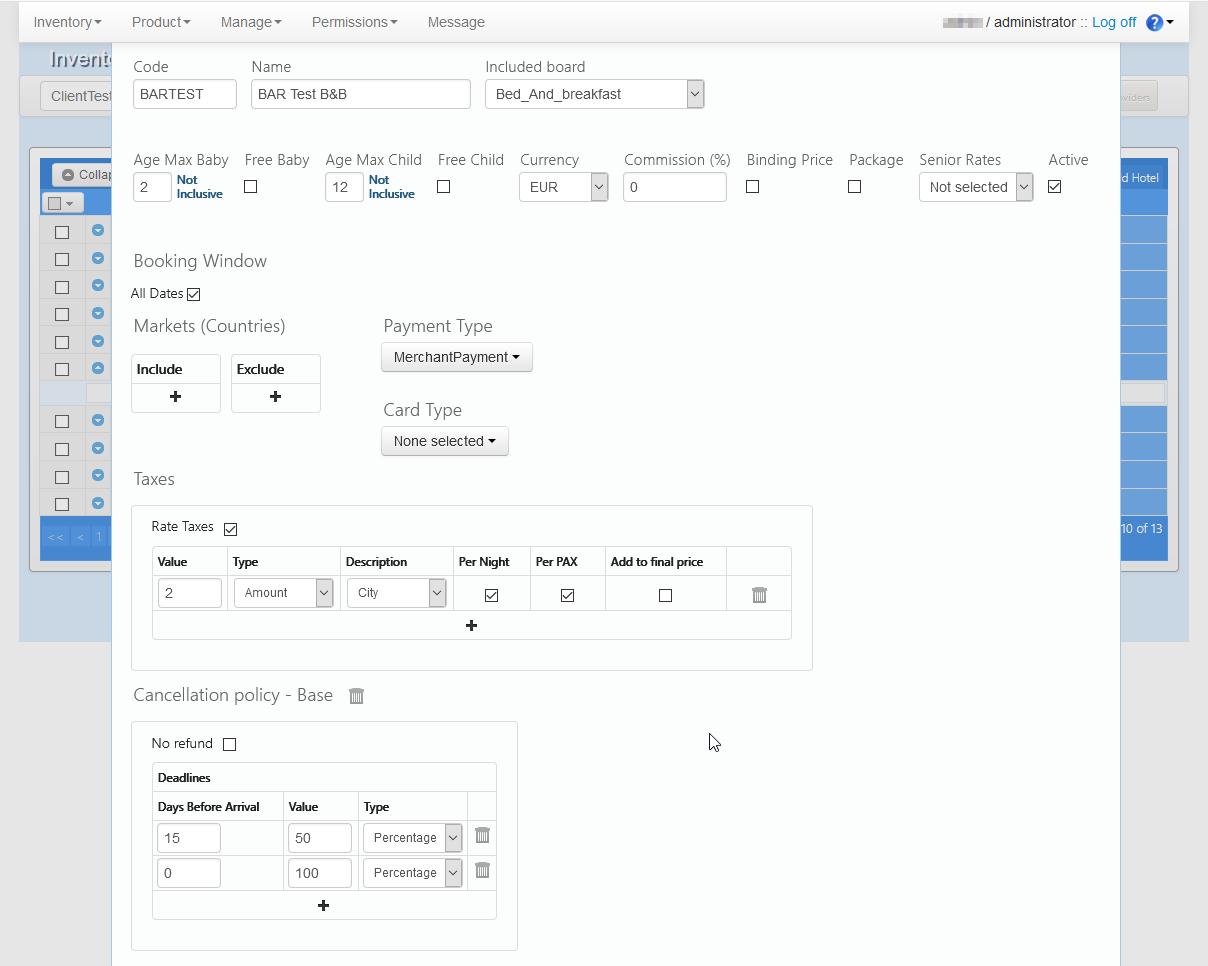
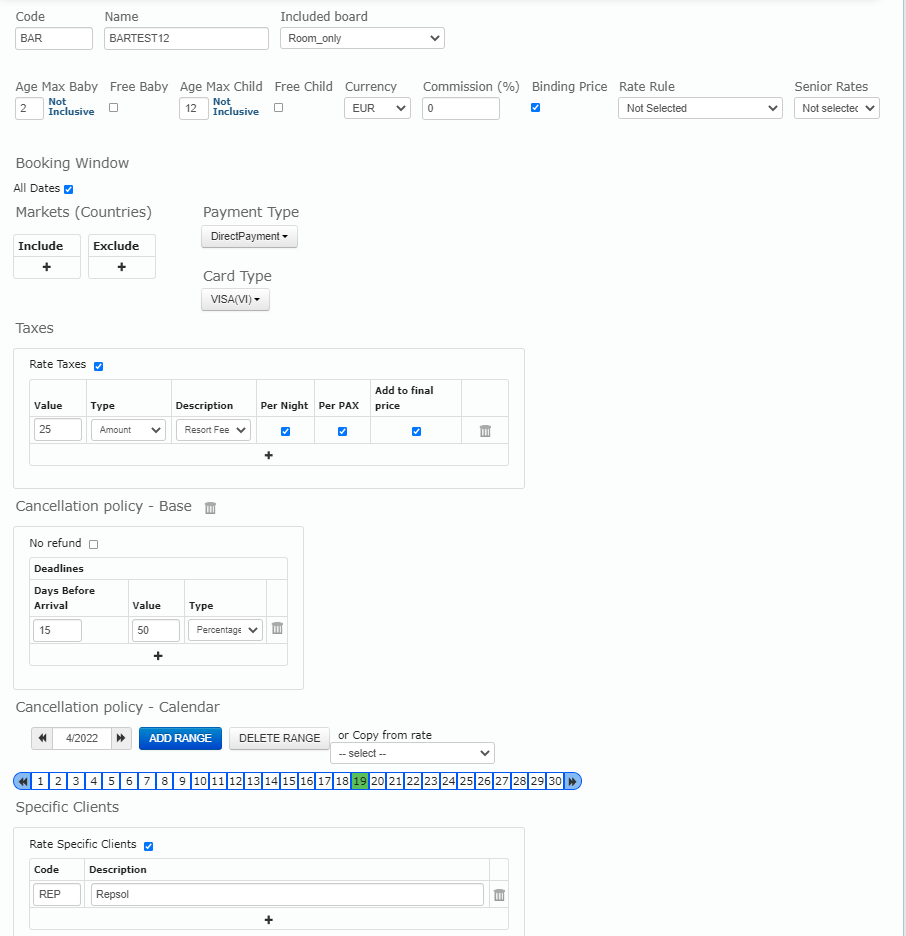
Feat: Add specific clients documentation to inventory

diff --git a/content/inventory-x/extranet/load-product/setup/_index.md b/content/inventory-x/extranet/load-product/setup/_index.md
@@ -32,7 +32,6 @@ Optionally, you will be able to configurate different discounts, supplements or 
 
 All these structures can be activated/deactivated or deleted. See [Activate/Deactivate/Delete](#activate/deactivate/delete) section for more details.
 
-In this page you can also find information about the [Wizard SetUp](#wizard-setup), created to help configure multiple hotels that share the same rates and rooms information.
 
 ## Hotel
 
@@ -99,7 +98,7 @@ Now that you have added the hotel it is time to add the rates and then the rooms
 
 In order to add a new rate, click in the ``Add Rate`` button in the hotel row:
 
-![Inventory SetUp Add Rate](./../../../images/web/inventory_setup_addrate.JPG "Inventory SetUp Add Rate")
+![Inventory SetUp Add Rate](./../../../images/web/inventory_setup_addrate.png "Inventory SetUp Add Rate")
 
 </br>
 
@@ -138,6 +137,8 @@ added once the checkbox of "Taxes" is checked:
     * **Add to final price:** if checked, the tax price will be included in the final price that the client will pay. If it is not checked, the tax will be informative to the final customer and should be paid for them at the hotel.
 * **Cancellation policy – Base:** Cancellation policies that can be applied to the rate. The rate will be non refundable if the checkbox ``No refund`` is checked. It is possible to apply a different type of cancellation policy by clicking the `+` button. You can add as many policies as you need, all you need to do is indicate the days in advance before the arrival date, the type and the value of the policy. See [How to configurate different cancel policies](./../../faq/cancel-policies) section for some examples.
 * **Cancellation policy - Calendar:** This option will only appear once you have created your rate previously with base cancel policies. The cancellation policy by calendar allows you to create specific cancel policies by day or date range. You can click the `Add range` button to specify a date range and the cancel policies. This new cancel policies by day will override the base cancel policies specified at rate level. If you want to remove a cancel policy by date you can click the `Delete range` button and specify your dates. You can also delete or check the cancel policies by day clicking in the day's number of the month.
+* **Specific Clients:** If you want to inform that this rate is only for a list of specific clients check this option and add both Code (code that represent your client) and Description (normally the name of the client). You can add maximum 15 clients. The client codes have to be unique on the same rate.  
+
 
 When a rate is added, it appears in the hotel node when you click the arrow that appears on the left side of the hotel name.
 
@@ -238,49 +239,6 @@ In the following image you will see the three action buttons to activate, deacti
 </br>
 
 In case there are any hotels, rates, derived rates or rooms deactivated, they will appear on a red background, as you can see in the previous image for hotel *"Just Sleep Jiaoxi"* 
-
-</br>
-
-# Wizard SetUp
-
-The Wizard Setup is a tool that is be really helpful when you have to create lots of the same rates and rooms for different hotels. 
-
-![Inventory-X Wizard SetUp](./../../../images/web/inventory_wizardsetup.png "Wizard Inventory-X")
-
-</br>
-
-You will be able to create hotels rates, rooms and cancellation policies and then create the relation among them. Once you have selected the client-channel relation, a Wizard SetUp view with four different sections will appear:
-
-![Inventory-X Wizard SetUp](./../../../images/web/inventory_wizardsetup1.png "Wizard Inventory-X")
-
-</br>
-
-The process is quite simple. In order to add a new hotel you will have to click the ``+`` button, situated at the bottom of the Hotels section. A row with a few fields that have to be completed will appear.
-
-Like in the SetUp tab, the field ``Name`` will be used for the names of hotels as you are introducing data. When you have found the hotel you want to add, it is necessary to click it. The fields ``Hotel Email``, ``CC Address`` and ``From Address`` might be changed if you want, however, it's not possible to leave any of them empty. You can add as many hotels as you want.
-
-Once there are hotels added you can set up rates. To do so, click the ``+`` button located at the bottom of the Rates section. A row will appear and you will need to complete the information regarding the rate. This information is the same that the one explained in the section [How to add a rate](#how-to-add-a-rate), except for the fields ``Active`` and ``All Dates``. All rates will be active and available always. If you want to change this fields, you will need to change it in the SetUp
-tab.
-
-![Inventory-X Wizard SetUp](./../../../images/web/inventory_wizardsetup2.png "Wizard Inventory-X")
-
-</br>
-
-Once the rate information is filled in, you can indicate which hotels this rate will apply to, as you can see in the previous screenshot.
-
-Once rates have been added you can keep on creating the cancellation policies. Click the blue button `+` located at the bottom of the Policies section. A new row will show up with a few fields regarding the cancellation policies that you would have to fill in. The functionality of the drop down multi selector will allow you to assign these cancellation policies to a specific Hotel – Rate pair that you want.
-
-![Inventory-X Wizard SetUp](./../../../images/web/inventory_wizardsetup3.png "Wizard Inventory-X")
-
-</br>
-
-Next step is to add the rooms that will be available for the different rates of each hotel. To do so, as mentioned before, you have to click the blue ``+`` button located at the bottom of the Rooms section and then you will be asked to fill in the room information. You should introduce the hotel name into the field *Name* and it will show you suggestions as you are introducing the name. Afterwards it will be necessary for you to introduce the standard occupancy, select the different occupancies allowed by the room (this will be indicated as follows: number of adult – number of children – number of babies) and the pairs Hotel – Rate that will have this room assigned to them.
-
-![Inventory-X Wizard SetUp](./../../../images/web/inventory_wizardsetup4.png "Wizard Inventory-X")
-
-</br>
-
-When this process of the creation is over, in order to save the configurations, you have to click the ``Save`` button. In case that there is an error, a message will appear at over the view indicating what has happened and keeping the data filled in. If there is no error and everything has worked correctly a pop-up window will appear, informing that everything is correct.
 
 
 {{%custom-children%}}

diff --git a/content/inventory-x/extranet/FAQ/discount-supplement/_index.md b/content/inventory-x/extranet/FAQ/discount-supplement/_index.md
@@ -22,7 +22,7 @@ First, it is necessary to create the Derived Rate in the *SetUp* section. Once t
 
 A pop up window will appear for you to fill in the derived rate information:
 
-![Inventory-X SetUp Derived Rate](./../../../images/web/inventory_setup_derivedrate2.png "Inventory-X SetUp Derived Rate")
+![Inventory-X SetUp Derived Rate](./../../../images/web/inventory_setup_derivedrate2.JPG "Inventory-X SetUp Derived Rate")
 
 </br>
 
@@ -30,8 +30,8 @@ A pop up window will appear for you to fill in the derived rate information:
 * **Name:** Derived rate name.
 * **Cancel policies from base rate:** Checkbox that will apply the cancel policies from the base rate to the derived rate depending on whether it is checked or not. If it is not checked, a form appears like the one seen previously when adding a rate, letting you add the cancel policies you may want for this derived rate.
 * **Markets from base rate:** Checkbox that will apply the markets from the base rate to the derived rate depending on whether it is checked or not. If it is not checked, a form appears like the one seen previously when adding a rate, letting you select any markets you may want included or excluded for this derived rate.
-* **Apply Package from base rate:** Checkbox that will apply the package conditions from the base rate depending on whether it is checked or not.
-* **Package:** Checkbox that informs if the amount is for a package depending on if it is checked or not.
+* **Apply Rate Rule from base rate:** Checkbox that will apply the rate rule conditions from the base rate depending on whether it is checked or not.
+* **Rate Rule:** Rate rule to select if you do not want apply the same than the base rate.
 * **Active:** Checkbox to activate or deactivate the derived rate. If it is checked the derived rate is active.
 * **Apply Dates from base rate:** Checkbox used to apply the effective dates from the base rate. If it is not checked appears a form like the one explained previously when creating a rate.
 * **Board from base rate:** Checkbox used to apply the meal plan from the base rate. If it's not checked, the meal plan list will be enabled and you will be able to select the board of the derived rate.
@@ -40,6 +40,7 @@ room in order to be able to save the derived rate. Bear in mind that if the deri
 * **Apply Payments from Base Rate:** Checkbox that indicates if the *“Payment Type”* and *“Card Type"* are the same as the base rate. If so, it has to be selected. If not, you will be able to select this information from drop down menus, so that the derived rate can have its own payment types.
 * **Inform Base Rate:** Checkbox that indicates that the retrieve functions would return the name of the Base Rate instead of the derived rate’s name, if checked.
 * **Apply MealPlan Supplement from Base Rate:** Checkbox that allows the derived rate to have its own MealPlan Supplements. If checked, the derived rate would get the MealPlans of the base rate if any.
+* **Apply Specific Clients from Base Rate:** Checkbox that allows the derived rate to have its own Specific Clients. If checked, the derived rate would get the Specific Clients of the base rate if any.
 
 In our example we have created a derived rate specifying its code and name as a discount and we’ve indicated that we only want this discount to be applied to our *‘Double room’*. All other conditions will remain the same as its base rate. 
 

diff --git a/content/connectiontypessellers/hotelpushsellers/api-reference/messages/set-up/hotelrateplaninventorynotif.md b/content/connectiontypessellers/hotelpushsellers/api-reference/messages/set-up/hotelrateplaninventorynotif.md
@@ -198,13 +198,20 @@ Providers send a HotelRatePlanInventoryNotifRQ message to push the Hotel SetUp i
                         </GuestRoom>
                     </SellableProduct>
                 </SellableProducts>
-		<Taxes>
-		    <Tax Amount = "20" ChargeFrequency = "PerNight" ChargeUnit = "">
-			<TaxDescription>
-			    <Text>city</Text>
-			</TaxDescription>
-		    </Tax>
-		</Taxes>
+		        <Taxes>
+		            <Tax Amount = "20" ChargeFrequency = "PerNight" ChargeUnit = "">
+			            <TaxDescription>
+			            <Text>city</Text>
+			            </TaxDescription>
+		            </Tax>
+		        </Taxes>
+                <AdditionalDetails>
+                    <AdditionalDetail Code="REP" Type="39">
+                        <DetailDescription>
+                            <Text>Repsol</Text>
+                        </DetailDescription>
+                    </AdditionalDetail>
+                </AdditionalDetails>
                 <Description>
                     <Text>bb</Text>
                 </Description>
@@ -385,6 +392,12 @@ Providers send a HotelRatePlanInventoryNotifRQ message to push the Hotel SetUp i
 | @NightsDiscounted | 1 | String | Nights the offer will discount from the total stay amount. |
 | @DiscountPattern | 1 | String | Booking night/s the offer will dicount. Possible values are First, Last or Cheapest.  |
 | RatePlans/RatePlan/Offers/Offer/OfferDescription/Text | 1 | String | Offer desription. |
+| RatePlans/RatePlan/AdditionalDetails | 0..1 |  | Rate plan additional details |
+| RatePlans/RatePlan/AdditionalDetails/AdditionalDetail | 0..n |  | List of additional details |
+| @Code | 1 | String | Trading partner code associated with the detail |
+| @Type | 1 | String | Define the information. Only allowed "39" (Contract/negotiated booking information)|
+| RatePlans/RatePlan/AdditionalDetails/AdditionalDetail/DetailDescription | 1 |  | Details Description |
+| RatePlans/RatePlan/AdditionalDetails/AdditionalDetail/DetailDescription/Text | 1 | String | Description. If additional details type is "39", the name of the trading partner for this rate.  |
 | TPA_Extensions			   	| 0..1    	|		| Optional, only added when create or delete an hotel. |
 | TPA_Extensions/Attribute            		| 1       	|		|							|
 | @key        			| 1  		| String	| HotelNotifType.						|

diff --git a/content/connectiontypessellers/hotelpushsellers/api-reference/messages/set-up/hotelrateplaninventoryretrieve.md b/content/connectiontypessellers/hotelpushsellers/api-reference/messages/set-up/hotelrateplaninventoryretrieve.md
@@ -170,6 +170,13 @@ Providers send a HotelRatePlanInventoryRetrieveRQ message to retrieve a list of 
                 </GuestRoom>
               </SellableProduct>
             </SellableProducts>
+            <AdditionalDetails>
+              <AdditionalDetail Code="REP" Type="39">
+                <DetailDescription>
+                  <Text>Repsol</Text>
+                </DetailDescription>
+              </AdditionalDetail>
+            </AdditionalDetails>
           </RatePlan>
         </RatePlans>
       </HotelRatePlanInventoryRetrieveResult>
@@ -354,3 +361,9 @@ In the previous example we received one hotel, one Rate Plan and 2 rooms. One of
 | @MaxOccupancy				   | 1 		 | Integer  | Max occupation.  					|
 | @AgeQualifyingCode			   | 1 		 | Integer  | (10 - Adult,8 - Child,7 - Infant).		|
 | RatePlans/RatePlan/SellableProduct/GuestRoom/Description/Text | 1 | String | Room description.			|
+| RatePlans/RatePlan/AdditionalDetails | 0..1 |  | Rate plan additional details |
+| RatePlans/RatePlan/AdditionalDetails/AdditionalDetail | 0..n |  | List of additional details |
+| @Code | 1 | String  | Trading partner code associated with the detail. |
+| @Type | 1 | String | Define the information. Only allowed "39" (Contract/negotiated booking information)|
+| RatePlans/RatePlan/AdditionalDetails/AdditionalDetail/DetailDescription | 1 |  | Details Description |
+| RatePlans/RatePlan/AdditionalDetails/AdditionalDetail/DetailDescription/Text | 1 | String  | Description. If additional details type is "39", the name of the trading partner for this rate.  |
